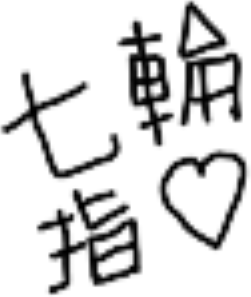
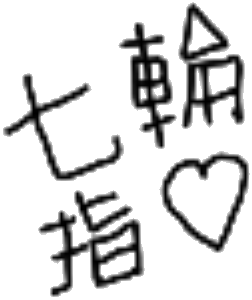
Crop tattoos tightly and size them consistently
Stray faint pixels made the Saturn and Umbrella crops ~3x too large.
Re-cropped every tattoo to its drawing, and replaced the random sizes
with equal-area sizing (long shapes capped) so they read as one set.

diff --git a/src/components/Tattoos.tsx b/src/components/Tattoos.tsx
@@ -1,23 +1,38 @@
 import { memo, useState } from "react";
 
+// Aspect ratios (width / height) of the tightly cropped images in public/tattoos.
 const TATTOOS = [
-  "clouds",
-  "h2gkmo",
-  "heart",
-  "japanese",
-  "leaves",
-  "moon",
-  "saturn",
-  "tears",
-  "toulouse",
-  "umbrella",
+  { name: "clouds", aspect: 1.311 },
+  { name: "h2gkmo", aspect: 0.228 },
+  { name: "heart", aspect: 1.037 },
+  { name: "japanese", aspect: 0.84 },
+  { name: "leaves", aspect: 1.05 },
+  { name: "moon", aspect: 0.983 },
+  { name: "saturn", aspect: 1.25 },
+  { name: "tears", aspect: 0.575 },
+  { name: "toulouse", aspect: 3.429 },
+  { name: "umbrella", aspect: 0.853 },
 ];
+
+// Every tattoo gets the same visual weight: equal area (BASE²), with long shapes capped.
+const BASE = 64; // design units (× --u)
+const MAX_SIDE = BASE * 1.7;
+
+const sizeFor = (aspect: number) => {
+  let w = BASE * Math.sqrt(aspect);
+  let h = BASE / Math.sqrt(aspect);
+  const scale = Math.min(1, MAX_SIDE / Math.max(w, h));
+  w *= scale;
+  h *= scale;
+  return { w, h };
+};
 
 interface Placement {
   name: string;
   x: number; // % of viewport width
   y: number; // % of viewport height
-  size: number; // design units (× --u)
+  w: number; // design units (× --u)
+  h: number;
   rotate: number; // degrees
 }
 
@@ -31,14 +46,14 @@ function scatter(): Placement[] {
   const landscape = window.innerWidth > window.innerHeight;
   const [cols, rows] = landscape ? [5, 2] : [2, 5];
   const names = [...TATTOOS].sort(() => Math.random() - 0.5);
-  return names.map((name, k) => {
+  return names.map(({ name, aspect }, k) => {
     const col = k % cols;
     const row = Math.floor(k / cols);
     return {
       name,
       x: ((col + rand(0.15, 0.85)) / cols) * 100,
       y: ((row + rand(0.15, 0.85)) / rows) * 100,
-      size: rand(55, 95),
+      ...sizeFor(aspect),
       rotate: rand(-180, 180),
     };
   });
@@ -60,7 +75,8 @@ export const Tattoos = memo(function Tattoos() {
             {
               left: `${p.x}%`,
               top: `${p.y}%`,
-              "--size": p.size,
+              "--w": p.w,
+              "--h": p.h,
               "--rotate": `${p.rotate}deg`,
             } as React.CSSProperties
           }

diff --git a/src/styles.css b/src/styles.css
@@ -90,9 +90,8 @@ button:focus-visible {
 
 .tattoo {
   position: absolute;
-  width: calc(var(--size) * var(--u));
-  height: calc(var(--size) * var(--u));
-  object-fit: contain;
+  width: calc(var(--w) * var(--u));
+  height: calc(var(--h) * var(--u));
   opacity: 0.2;
   transform: translate(-50%, -50%) rotate(var(--rotate));
   transition: transform var(--flip);
